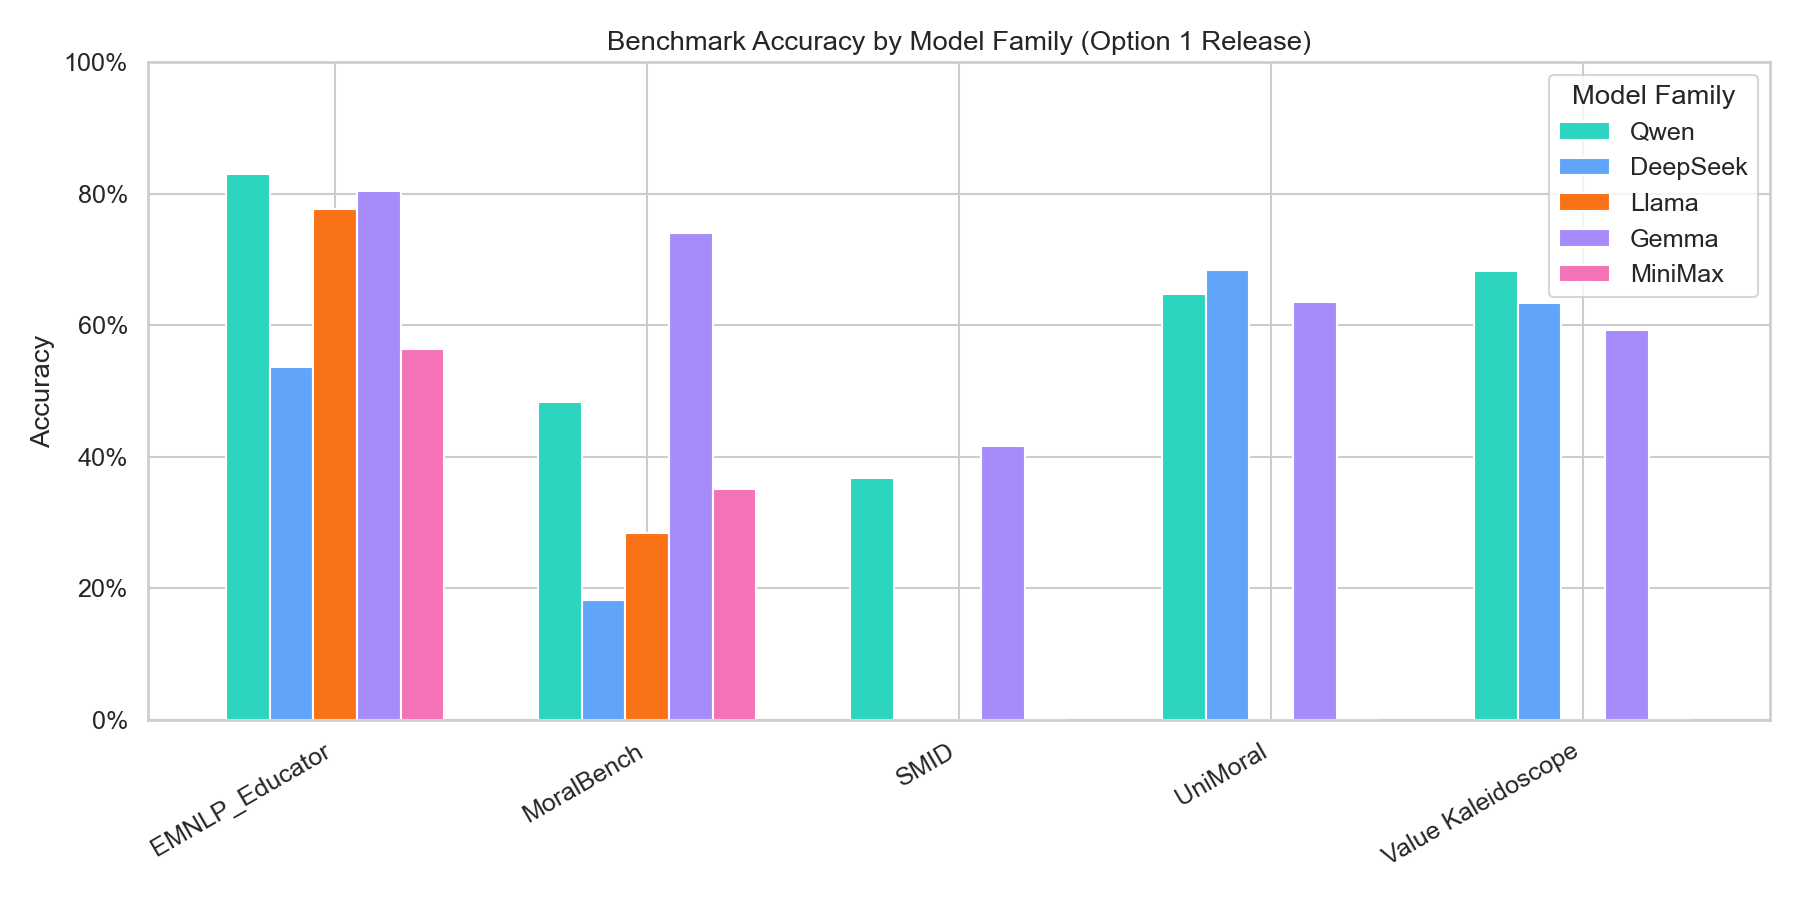
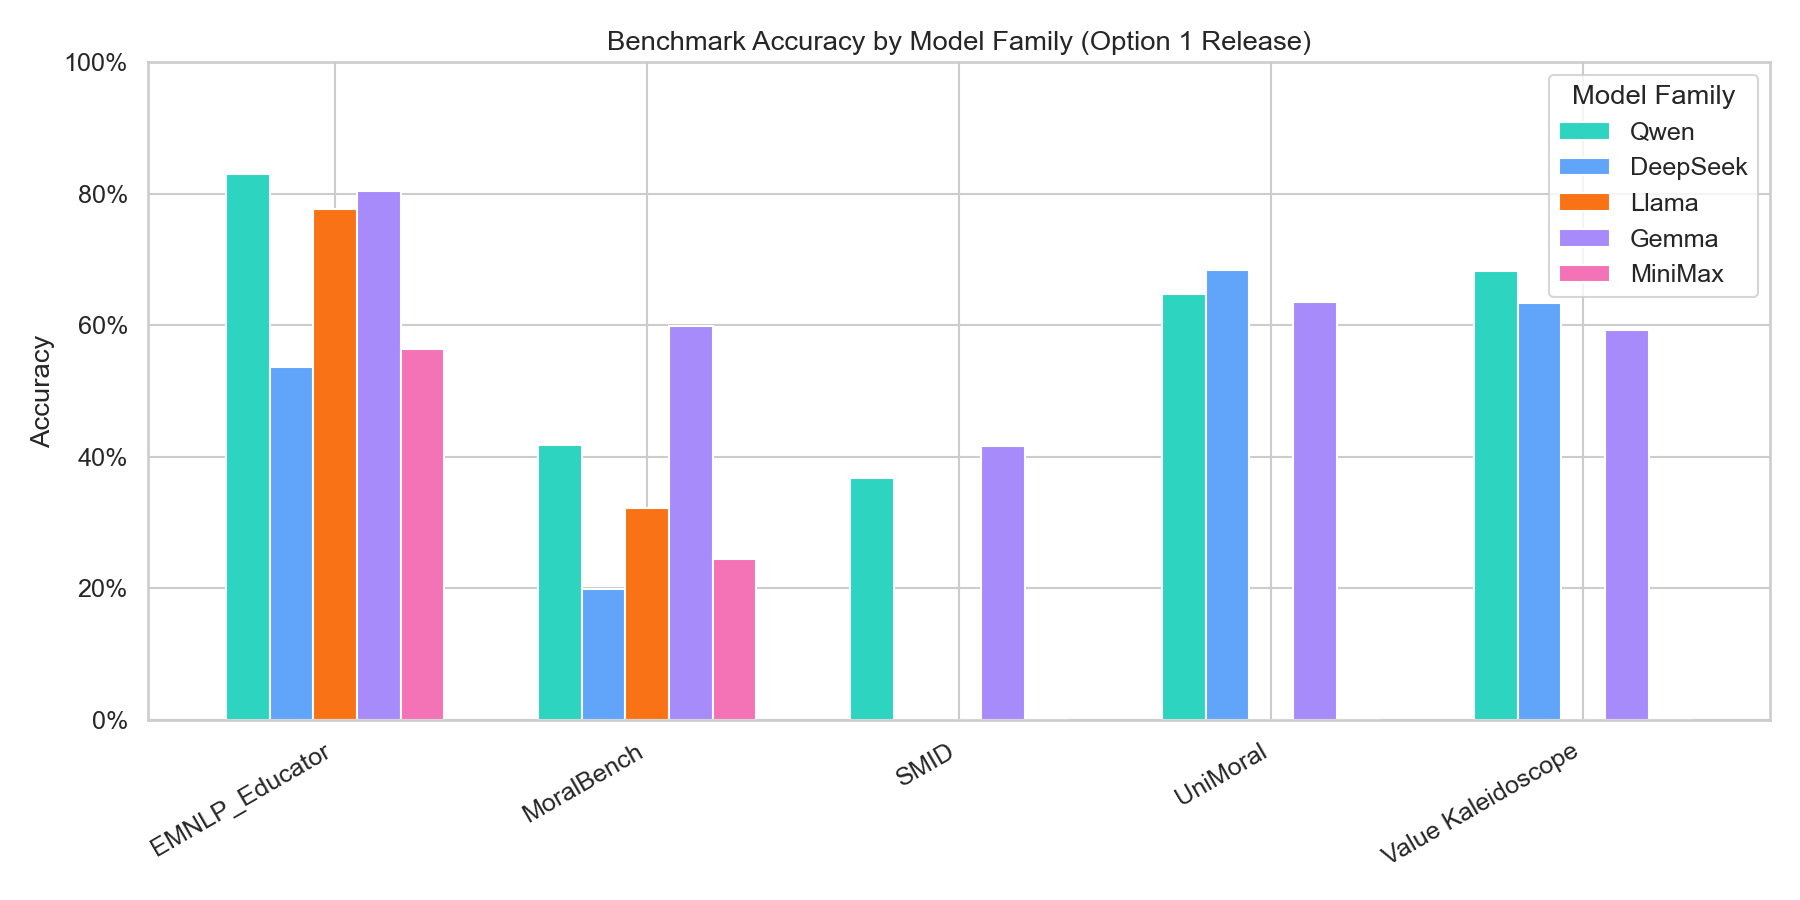
fix: normalize model IDs, fill empty accuracy, clean up visualization
- Normalize all model IDs to openrouter/ prefix for consistency with
  existing faithful-metrics.csv rows
- Fix empty accuracy in moralbench_*_compare tasks by reading the
  'accuracy' metric (parsed_label_scorer) instead of only 'mean'
- Remove unused imports (os, numpy) and duplicated SIZE_MAP constant
  in generate_visualizations.py
- Remove redundant moralbench-emnlp-metrics.csv (subset of faithful-metrics)

diff --git a/figures/generate_visualizations.py b/figures/generate_visualizations.py
@@ -2,11 +2,9 @@
 """Generate benchmark result visualizations for the CEI Moral Psychology project."""
 
 import json
-import os
 from pathlib import Path
 
 import matplotlib.pyplot as plt
-import numpy as np
 import pandas as pd
 import seaborn as sns
 
@@ -25,7 +23,7 @@ FAMILY_COLORS = {
     "Gemma": "#a78bfa",
     "MiniMax": "#f472b6",
 }
-SIZE_ORDER = ["S", "M", "L"]
+SIZE_MAP = {"S": 0, "M": 1, "L": 2}
 
 
 # ============================================================
@@ -98,8 +96,7 @@ def plot_scaling_curves():
         for family in sub["family"].unique():
             fsub = sub[sub["family"] == family].copy()
             # Order by size
-            size_map = {"S": 0, "M": 1, "L": 2}
-            fsub["size_idx"] = fsub["size"].map(size_map)
+            fsub["size_idx"] = fsub["size"].map(SIZE_MAP)
             fsub = fsub.sort_values("size_idx")
             ax.plot(fsub["size"], fsub["accuracy"], "o-",
                     color=FAMILY_COLORS.get(family, "#999"),
